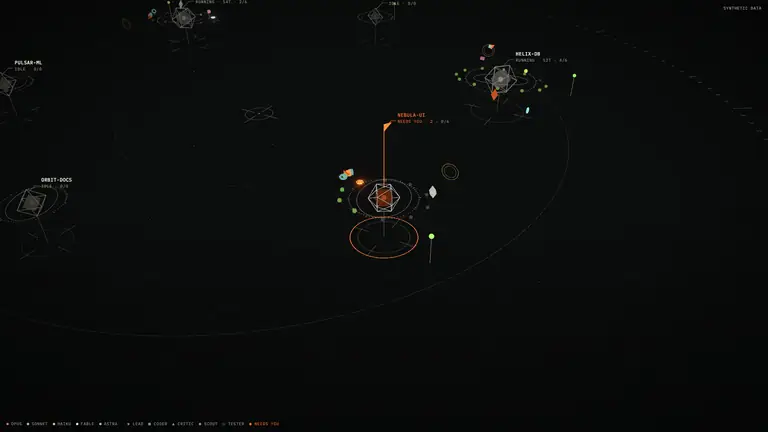
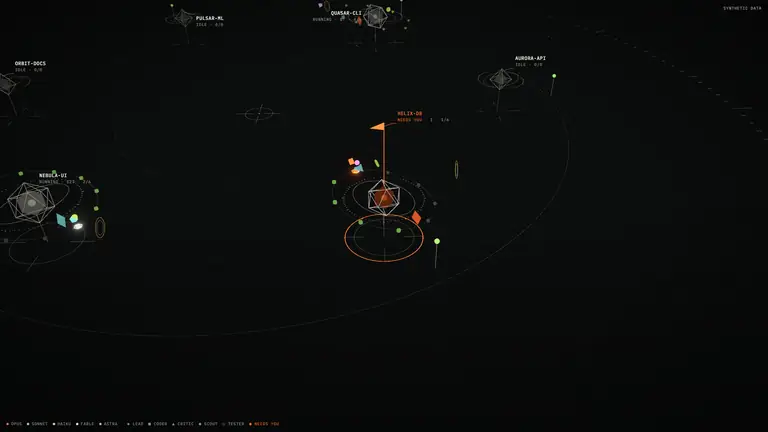
feat(site): posters on new world, single station-selection rule, TagLayout overlays, aligned breakpoints

diff --git a/apps/site/components/FleetStage.tsx b/apps/site/components/FleetStage.tsx
@@ -23,11 +23,27 @@ const POSTER_WIDTHS = [768, 1280, 1920] as const;
 const srcSet = (t: Theme) => POSTER_WIDTHS.map((w) => `/poster/fleet-${t}-${w}.webp ${w}w`).join(', ');
 /** Square 840px phone poster (scripts/assets.mjs: public/poster/fleet-<theme>-m.webp). */
 const phonePoster = (t: Theme) => `/poster/fleet-${t}-m.webp`;
-/** Mirrors the <picture> sources below for a visitor on the system scheme (the common case and Lighthouse's). */
-const POSTER_PRELOADS = (['light', 'dark'] as const).flatMap((t) => [
-  { media: `(max-width: 720px) and (prefers-color-scheme: ${t})`, href: phonePoster(t) },
-  { media: `(min-width: 721px) and (prefers-color-scheme: ${t})`, srcSet: srcSet(t) },
-]);
+interface PosterSource {
+  media: string;
+  srcSet: string;
+  sizes?: string;
+}
+/**
+ * The one table behind both the <picture> sources and the head preloads, so a preload always fetches exactly the
+ * poster the picture paints. Phones (<= 720px, the island's NARROW_MAX_PX) get the square still. With no forced
+ * theme the system scheme picks; a forced theme (html[data-theme], known only after hydration on a static export)
+ * narrows the picture to that theme. The preloads use the system table: before hydration that is what paints.
+ */
+function posterSources(forced: Theme | null): PosterSource[] {
+  return (forced ? [forced] : (['light', 'dark'] as const)).flatMap((t) => {
+    const scheme = forced ? '' : ` and (prefers-color-scheme: ${t})`;
+    return [
+      { media: `(max-width: 720px)${scheme}`, srcSet: phonePoster(t) },
+      { media: `(min-width: 721px)${scheme}`, srcSet: srcSet(t), sizes: '100vw' },
+    ];
+  });
+}
+const POSTER_PRELOADS = posterSources(null);
 
 /**
  * The scene follows html[data-theme], else the system scheme. The <picture> covers the system case
@@ -98,44 +114,6 @@ const ANCHOR_VARS = Object.fromEntries(
   ]),
 ) as React.CSSProperties;
 
-/** Clearance (px) a station tag keeps from the hero copy. */
-const KEEPOUT_PAD = 14;
-
-/**
- * Keeps the scene's station tags out of the words: a tag whose text block would sit over a [data-keepout]
- * element of the section (eyebrow, headline, lead, meta row; for a [data-keepout="children"] row, each of its
- * items: install box, demo link) or in the top band under the header fades out (data-occluded, globals.css). The waiting station's tag is never hidden; the
- * camera framing keeps it clear. All reads happen before any write, so this costs one layout per frame.
- */
-function keepLabelsClear(tags: HTMLElement[], section: Element, stage: DOMRect) {
-  const zones = [
-    ...section.querySelectorAll(
-      '[data-keepout]:not([data-keepout="children"]), [data-keepout="children"] > *',
-    ),
-  ].map((el) => el.getBoundingClientRect());
-  const band = stage.top + Math.min(80, stage.height * 0.14);
-  const hits = tags.map((tag) => {
-    if (tag.dataset.needs === '1') return false;
-    const b = (tag.querySelector('.fl-viz-block') ?? tag).getBoundingClientRect();
-    if (b.width === 0 && b.height === 0) return false;
-    if (b.top < band) return true;
-    return zones.some(
-      (z) =>
-        b.left < z.right + KEEPOUT_PAD &&
-        b.right > z.left - KEEPOUT_PAD &&
-        b.top < z.bottom + KEEPOUT_PAD &&
-        b.bottom > z.top - KEEPOUT_PAD,
-    );
-  });
-  tags.forEach((tag, i) => {
-    const want = hits[i] ? '1' : undefined;
-    if (tag.dataset.occluded !== want) {
-      if (want) tag.dataset.occluded = want;
-      else delete tag.dataset.occluded;
-    }
-  });
-}
-
 /**
  * Follows the live scene's waiting station: its tag anchor (the signal pennant), measured each frame in the
  * stage's own, untransformed coordinates and handed to the stylesheet, which frames it and raises the beacon.
@@ -150,17 +128,16 @@ function trackSignal(stage: HTMLElement, frame: HTMLElement, host: HTMLElement):
     if (visible && !raf) raf = requestAnimationFrame(step);
   });
   io.observe(stage);
-  const section = stage.closest('section') ?? document.body;
   function step() {
     raf = 0;
     if (!visible) return;
-    const tags = [...host.querySelectorAll<HTMLElement>('.fl-viz-tag')].filter(
-      (el) => el.style.visibility !== 'hidden' && el.style.display !== 'none',
-    );
-    const tag = tags.find((el) => el.dataset.needs === '1');
+    // the island marks the station its camera frames (island/entry.tsx markSignalTag): one rule for camera,
+    // beacon and poster anchors
+    const marked = host.querySelector<HTMLElement>('.fl-viz-tag[data-signal="1"]');
+    const tag =
+      marked && marked.style.visibility !== 'hidden' && marked.style.display !== 'none' ? marked : null;
     const sr = stage.getBoundingClientRect();
     const fr = frame.getBoundingClientRect();
-    keepLabelsClear(tags, section, sr);
     if (tag && sr.width > 0 && fr.width > 0) {
       const z = fr.width / sr.width;
       const r = tag.getBoundingClientRect();
@@ -278,7 +255,7 @@ export function FleetStage({
           rel="preload"
           as="image"
           media={p.media}
-          {...('href' in p ? { href: p.href } : { imageSrcSet: p.srcSet, imageSizes: '100vw' })}
+          {...(p.sizes ? { imageSrcSet: p.srcSet, imageSizes: p.sizes } : { href: p.srcSet })}
           fetchPriority="high"
         />
       ))}
@@ -291,16 +268,9 @@ export function FleetStage({
         <div ref={frame} className="stage-frame">
           <picture>
             {/* Phones get a square still rendered at phone size, so its station labels stay legible. */}
-            {forced ? null : (
-              <source
-                media="(max-width: 720px) and (prefers-color-scheme: light)"
-                srcSet={phonePoster('light')}
-              />
-            )}
-            <source media="(max-width: 720px)" srcSet={phonePoster(forced ?? 'dark')} />
-            {forced ? null : (
-              <source media="(prefers-color-scheme: light)" srcSet={srcSet('light')} sizes="100vw" />
-            )}
+            {posterSources(forced).map((p) => (
+              <source key={p.media} media={p.media} srcSet={p.srcSet} sizes={p.sizes} />
+            ))}
             <img
               className="hero-poster"
               src={`/poster/fleet-${forced ?? 'dark'}-1920.webp`}

diff --git a/apps/site/island/entry.tsx b/apps/site/island/entry.tsx
@@ -110,7 +110,9 @@ const FRAME_DIST = 0.74;
  * Phone-width canvases (the 375px hero and its 420px poster) come in closer, as a share of the same distance,
  * and look a little below the station so it sits above centre, clear of the copy that rises over the stage's foot.
  */
-const NARROW_PX = 600;
+/** Same breakpoint as the hero <picture>'s square phone poster (FleetStage: max-width 720px), so the still and the
+ * live camera always use the same framing. */
+const NARROW_MAX_PX = 720;
 const FRAME_DIST_NARROW = 0.5;
 const LOOK_Y_NARROW = -0.6;
 
@@ -127,6 +129,38 @@ function waitingStation(snap: FleetSnapshot): { index: number; count: number } |
       best = { index, count };
   }
   return best ? { index: best.index, count: ids.length } : null;
+}
+
+/**
+ * The one "which station is the signal" rule for the hero: the camera aims at waitingStation(), and this marks that
+ * station's tag data-signal="1" so the beacon (FleetStage) and the poster anchors (scripts/assets.mjs) follow the
+ * same station. Tags carry no project id, so the marked tag is the needs-you tag whose anchor (the 0x0 tag root sits
+ * on it) is nearest the station's projection: the anchor is on the station's own vertical axis, other stations are
+ * far apart on screen. `ndc` is the projected station (null: nothing waiting, no tag marked).
+ */
+function markSignalTag(host: HTMLElement, ndc: THREE.Vector3 | null, canvas: HTMLCanvasElement): void {
+  const tags = host.querySelectorAll<HTMLElement>('.fl-viz-tag[data-needs="1"], .fl-viz-tag[data-signal]');
+  let pick: HTMLElement | null = null;
+  if (ndc && tags.length) {
+    const c = canvas.getBoundingClientRect();
+    const px = c.left + (ndc.x * 0.5 + 0.5) * c.width;
+    const py = c.top + (1 - (ndc.y * 0.5 + 0.5)) * c.height;
+    let best = Infinity;
+    for (const t of tags) {
+      if (t.dataset.needs !== '1') continue;
+      const r = t.getBoundingClientRect();
+      const d = (r.left - px) ** 2 + 0.25 * (r.top - py) ** 2;
+      if (d < best) {
+        best = d;
+        pick = t;
+      }
+    }
+  }
+  for (const t of tags) {
+    if (t === pick) {
+      if (t.dataset.signal !== '1') t.dataset.signal = '1';
+    } else if (t.dataset.signal !== undefined) delete t.dataset.signal;
+  }
 }
 
 interface FramingControls extends THREE.EventDispatcher<{ start: object }> {
@@ -162,6 +196,8 @@ function useSignalFraming(
     const offset = new THREE.Vector3();
     const sph = new THREE.Spherical();
     const at = { x: 0, y: 0, z: 0 };
+    const station = new THREE.Vector3();
+    const seen = new THREE.Vector3();
     let yaw = 0;
     let started = false;
     let reported = false;
@@ -171,11 +207,12 @@ function useSignalFraming(
       if (!s || !controls) return;
       const n = Math.max(1, s.projects.length);
       const w = waitingStation(s);
-      const narrow = state.size.width < NARROW_PX;
+      const narrow = state.size.width <= NARROW_MAX_PX;
       const lookY = narrow ? LOOK_Y_NARROW : LOOK_Y;
       let goalYaw = yaw;
       if (w) {
         stationPosition(w.index, w.count, at);
+        station.set(at.x, at.y, at.z);
         goal.set(at.x, lookY, at.z);
         goalYaw = Math.atan2(at.x, at.z) + FRAME_YAW;
       } else goal.set(0, lookY, 0);
@@ -202,6 +239,8 @@ function useSignalFraming(
       controls.target.copy(target);
       state.camera.position.copy(target).add(offset.setFromSpherical(sph));
       state.camera.lookAt(target);
+      state.camera.updateMatrixWorld();
+      markSignalTag(host, w ? seen.copy(station).project(state.camera) : null, state.gl.domElement);
       if (!reported) {
         reported = true;
         // this frame renders framed; report after it has been presented

diff --git a/apps/site/app/page.tsx b/apps/site/app/page.tsx
@@ -33,24 +33,24 @@ export default function Home() {
         <div className="hero-horizon" aria-hidden="true" />
         <div className="hero-shade" aria-hidden="true" />
         <div className="wrap hero-copy">
-          <p className="label" data-keepout>
+          <p className="label" data-fl-overlay>
             Local mission control for Claude Code
           </p>
-          <h1 id="hero-title" className="display display-xl" data-keepout>
+          <h1 id="hero-title" className="display display-xl" data-fl-overlay>
             One of your agents is <em className="hero-sync">waiting on you.</em>
           </h1>
-          <p className="lead" data-keepout>
+          <p className="lead" data-fl-overlay>
             Fleet watches every Claude Code session on your Mac and raises one signal, here and on your phone,
             the moment an agent stops for you.
           </p>
-          <div className="hero-actions" data-keepout="children">
+          <div className="hero-actions" data-fl-overlay>
             <InstallCommand cmd={INSTALL_CMD} />
             <Link className="link-arrow" href="/demo">
               Open the live demo <Icon name="chevron" />
             </Link>
           </div>
         </div>
-        <div className="wrap hero-meta" data-keepout>
+        <div className="wrap hero-meta" data-fl-overlay>
           <span className="label">
             <span className="live-dot" aria-hidden="true" />
             Real WebGL render · synthetic fleet

diff --git a/apps/site/app/layout.tsx b/apps/site/app/layout.tsx
@@ -70,7 +70,7 @@ export default function RootLayout({ children }: { children: React.ReactNode }) 
         <a className="skip" href="#main">
           Skip to content
         </a>
-        <header className="nav">
+        <header className="nav" data-fl-overlay>
           <div className="wrap">
             <Link href="/" className="brand" aria-label="Fleet home">
               <Wordmark className="wordmark" />

diff --git a/apps/site/app/globals.css b/apps/site/app/globals.css
@@ -2532,11 +2532,6 @@ main {
     display: none;
   }
 }
-/* Station tags that would sit over the hero copy or under the header (FleetStage keepLabelsClear). */
-.stage .fl-viz-tag[data-occluded='1'] {
-  opacity: 0 !important;
-  transition: opacity var(--fl-dur-slow) ease-out;
-}
 @media (prefers-reduced-motion: no-preference) {
   .beacon-beam {
     animation: beacon-rise 1.1s 0.6s var(--fl-ease-land) both;
